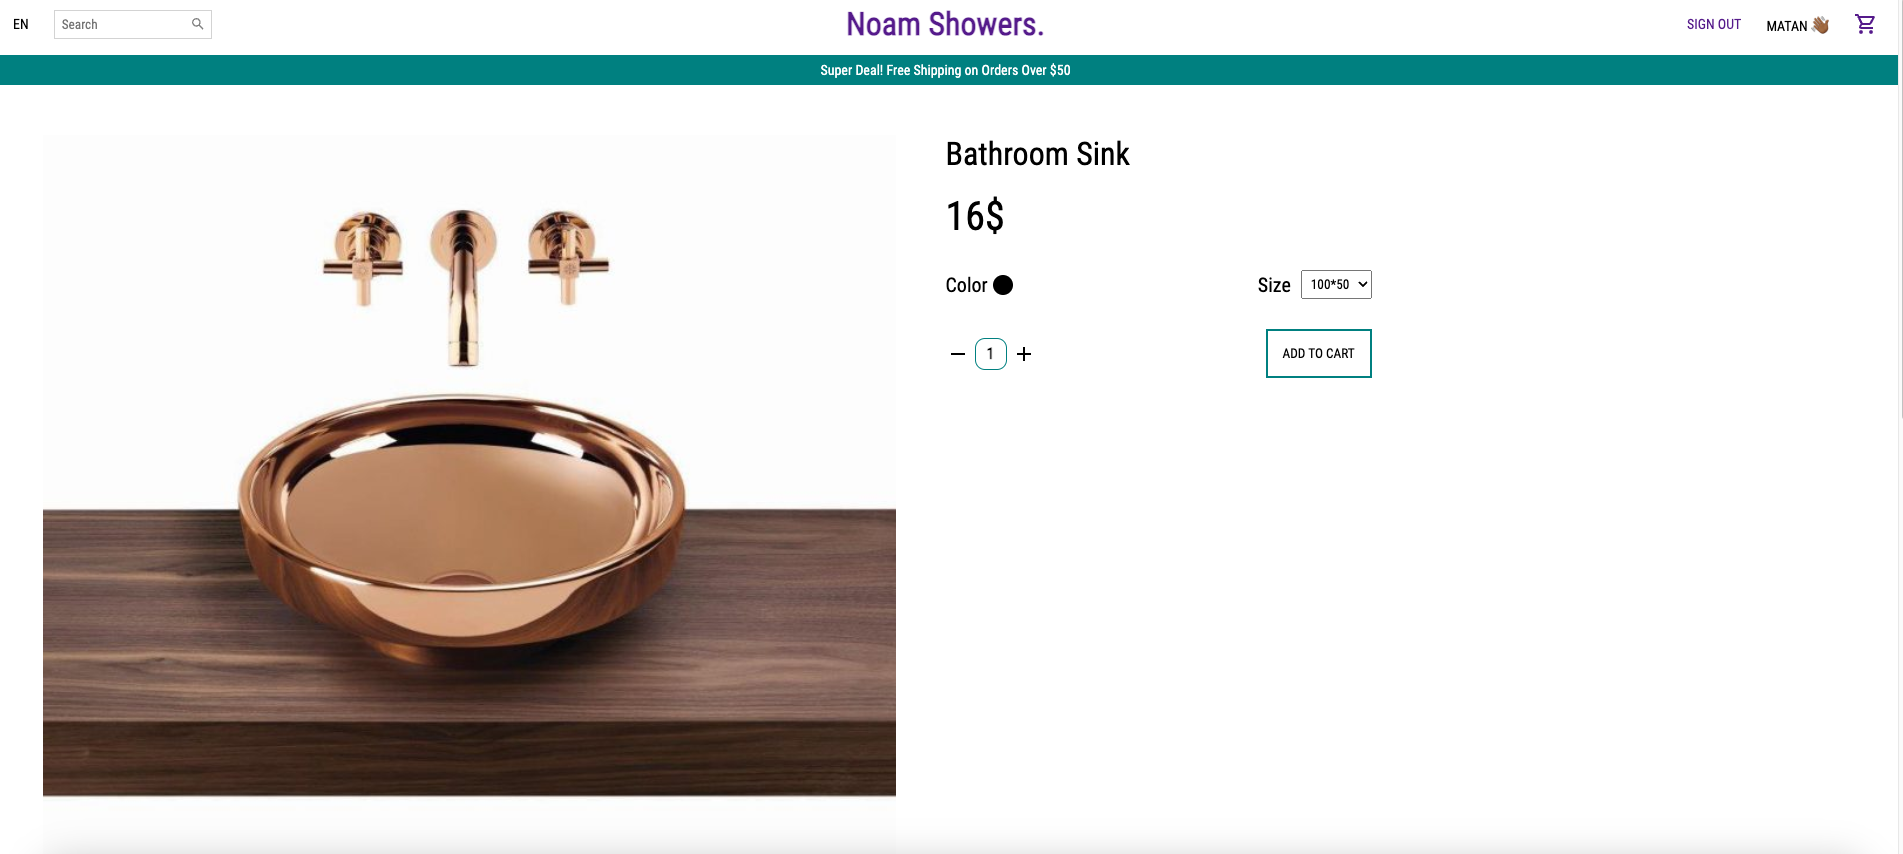
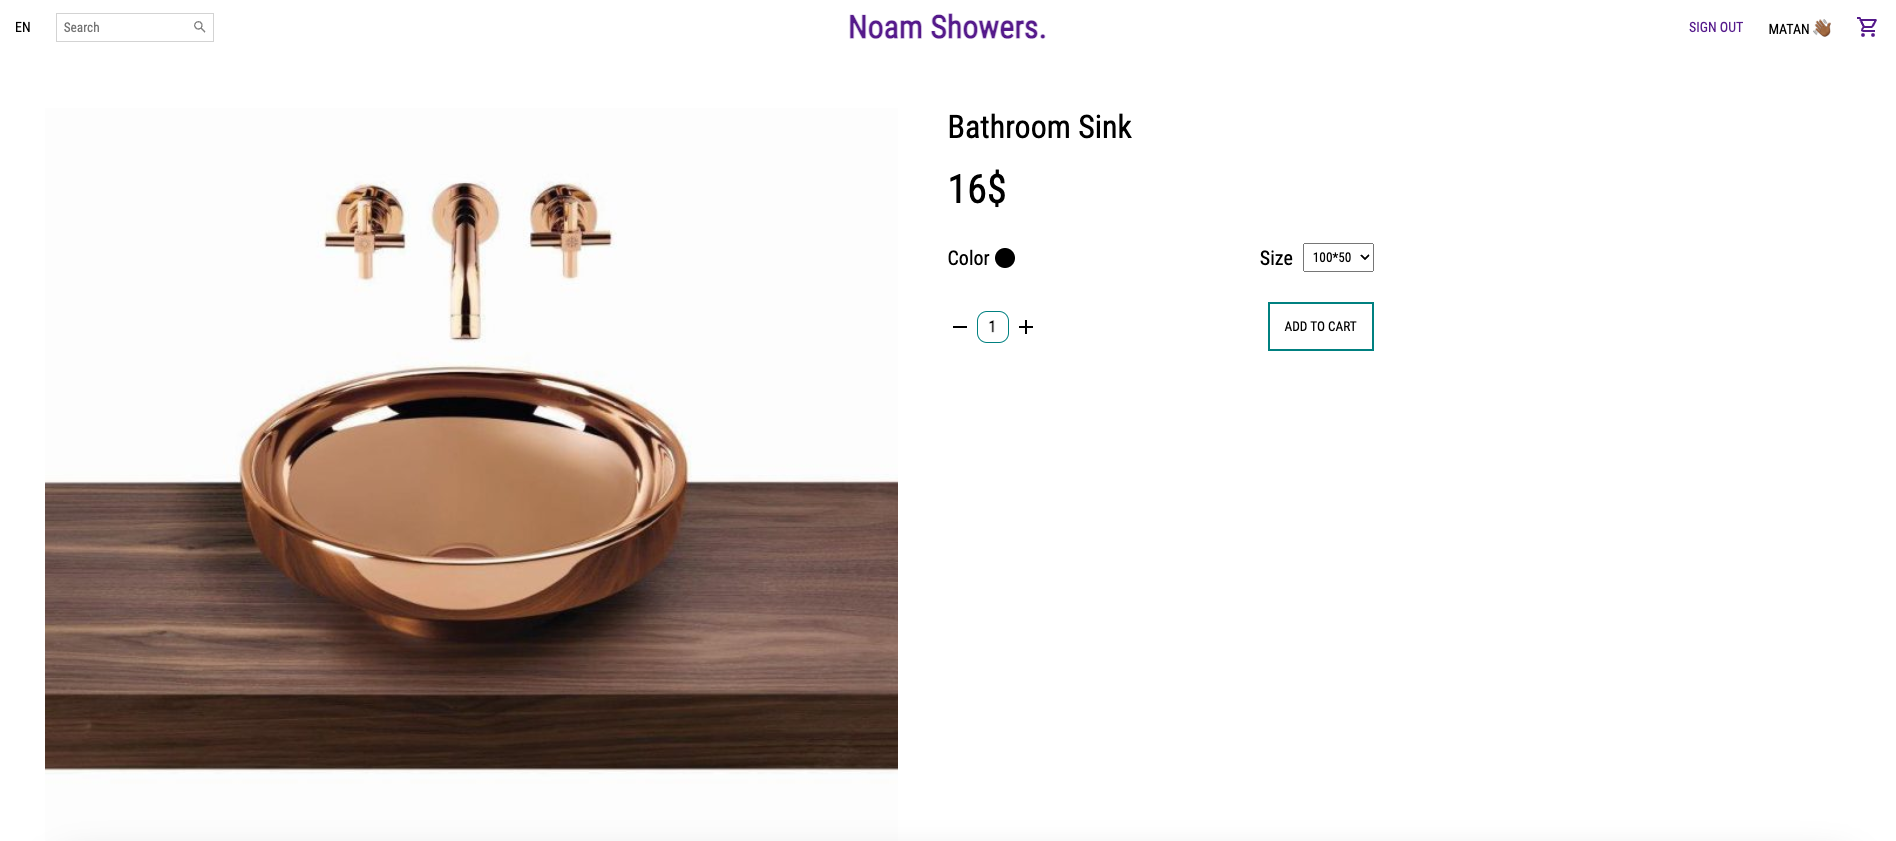
add one product

diff --git a/client/src/pages/Product.jsx b/client/src/pages/Product.jsx
@@ -163,7 +163,7 @@ const Product = () => {
 
   return (
     <Container>
-      <Announcement />
+      {/* <Announcement /> */}
       <Wrapper>
         <ImgContainer>
           <Image src={item.img} />
